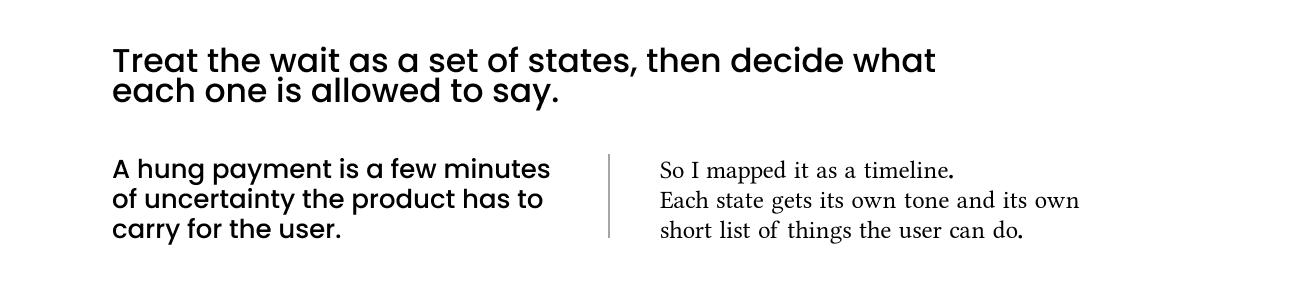
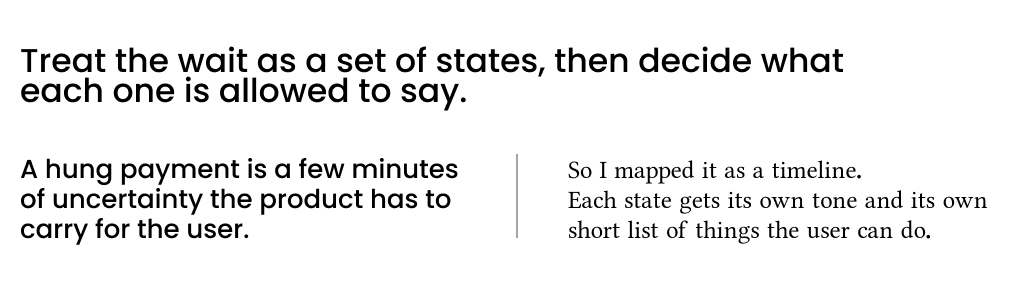
Replace decision cards + escalation table with designed image plates
- Swap all 5 decision cards (01-05) with verdict-{1-5}.png images
- Replace escalation ladder HTML table with designed image
- Update decision-heading.png with new version
- Add .cs-decision--img class for image-variant decision cards
- Keep testimonials 2x2 grid above 600px, single column on mobile

diff --git a/app/work/upi-failure-recovery/page.tsx b/app/work/upi-failure-recovery/page.tsx
@@ -139,15 +139,17 @@ const ladder = [
 const decisions = [
   {
     t: "No verdict until the bank gives one",
+    img: "/case/upi/verdict-1.png",
     problem:
       "An early “Failed” is the biggest trigger for panic retries. If the bank later confirms the first payment, the user has paid twice.",
-    options: ["Show “Failed” after a timeout", "A bare spinner", "Say what's happening, in words"],
+    options: ["Show “Failed” after a timeout", "A bare spinner", "Say what’s happening, in words"],
     pick:
-      "“We're checking your payment. The bank hasn't confirmed the status yet.” Your-money-is-safe sits in the subtext, and there is no retry button on the screen.",
+      "“We’re checking your payment. The bank hasn’t confirmed the status yet.” Your-money-is-safe sits in the subtext, and there is no retry button on the screen.",
     cost: "Someone who wants a yes or no right now gets “not yet”. A wrong “Failed” would cost them a double payment."
   },
   {
     t: "A time in place of “pending”",
+    img: "/case/upi/verdict-2.png",
     problem: "“Pending” has no end, and an open-ended wait is what sends people back to the pay button.",
     options: ["Indefinite spinner", "Progress bar", "Named stages with an expected time"],
     pick:
@@ -156,6 +158,7 @@ const decisions = [
   },
   {
     t: "Retry has to be earned",
+    img: "/case/upi/verdict-3.png",
     problem: "A warning printed next to a retry button gets ignored by exactly the people who are panicking.",
     options: ["Retry button with a warning", "Hide retry entirely", "Retry only after a confirmed refund"],
     pick:
@@ -164,6 +167,7 @@ const decisions = [
   },
   {
     t: "Support shows up on a timer",
+    img: "/case/upi/verdict-4.png",
     problem:
       "If support is always one tap away, people write in at minute one about payments that would have cleared at minute two. If it's buried, the genuinely stuck ones never get help.",
     options: ["Support always visible", "Support inside the help centre", "Unlock support after a threshold"],
@@ -173,7 +177,8 @@ const decisions = [
   },
   {
     t: "Lead with where the money is",
-    problem: "“Payment failed” describes the system's mistake. The user wants to know where their ₹450 went.",
+    img: "/case/upi/verdict-5.png",
+    problem: "“Payment failed” describes the system’s mistake. The user wants to know where their ₹450 went.",
     options: [] as string[],
     pick:
       "“Money refunded”, with +₹450.00 shown against the failed original. On success, a green tick and “The money has reached the recipient” come before any receipt details.",
@@ -489,20 +494,21 @@ export default function UpiCaseStudy() {
           Every state answers two questions: how worried should I be, and what can I do? The tone only goes up when the
           product&rsquo;s own promise slips.
         </p>
-        <div className="cs-tablewrap">
-          <table className="cs-table">
-            <thead><tr><th>When</th><th>Screen</th><th>Tone</th><th>What the user can do</th></tr></thead>
-            <tbody>
-              {ladder.map((r) => (
-                <tr key={r[0]}><td><strong>{r[0]}</strong></td><td>{r[1]}</td><td>{r[2]}</td><td>{r[3]}</td></tr>
-              ))}
-            </tbody>
-          </table>
-        </div>
+        <figure className="cs-overview-img" style={{ marginTop: "1.5rem" }}>
+          <img
+            src="/case/upi/escalation-ladder.png"
+            alt="Escalation ladder — When, Screen, Tone, What the user can do across six states from 0-5 seconds to any attempt to pay again"
+            loading="lazy"
+            decoding="async"
+          />
+        </figure>
 
         <h3 className="cs-h3">Five decisions, and what each one cost</h3>
         <div className="cs-decisions">
           {decisions.map((d, i) => (
+            d.img ? (
+              <img className="cs-decision cs-decision--img" key={d.t} src={d.img} alt={`Decision ${i + 1}: ${d.t}`} loading="lazy" decoding="async" />
+            ) : (
             <article className="cs-decision" key={d.t}>
               <span className="cs-decision__n">0{i + 1}</span>
               <div>
@@ -529,6 +535,7 @@ export default function UpiCaseStudy() {
                 </div>
               </div>
             </article>
+            )
           ))}
         </div>
 

diff --git a/app/globals.css b/app/globals.css
@@ -2032,6 +2032,10 @@ body.pill-cursor .cursor { opacity: 0; }
   background: var(--cs-canvas); border: 1px solid var(--cs-hairline);
   border-radius: var(--cs-r-md); padding: clamp(1.1rem, 2.4vw, 1.6rem);
 }
+.cs-decision--img {
+  display: block; width: 100%; height: auto;
+  padding: 0; border: none; background: none; box-shadow: none;
+}
 .cs-decision__n {
   font-family: var(--font-inter), sans-serif; font-size: 1.6rem; font-weight: 600; line-height: 1;
   color: color-mix(in srgb, var(--cs-accent) 70%, var(--cs-muted)); font-variant-numeric: tabular-nums;
